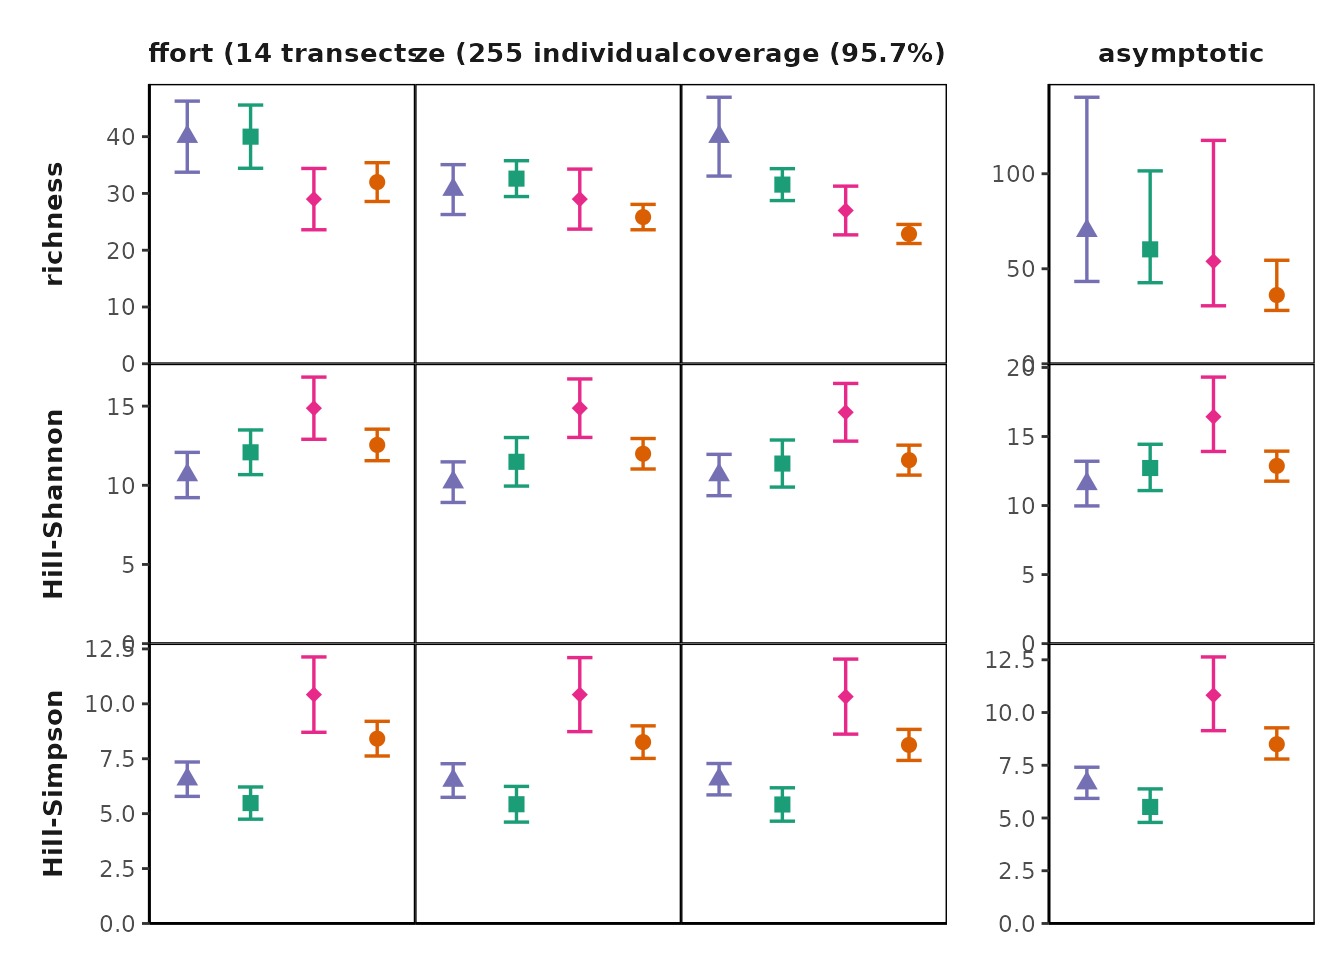
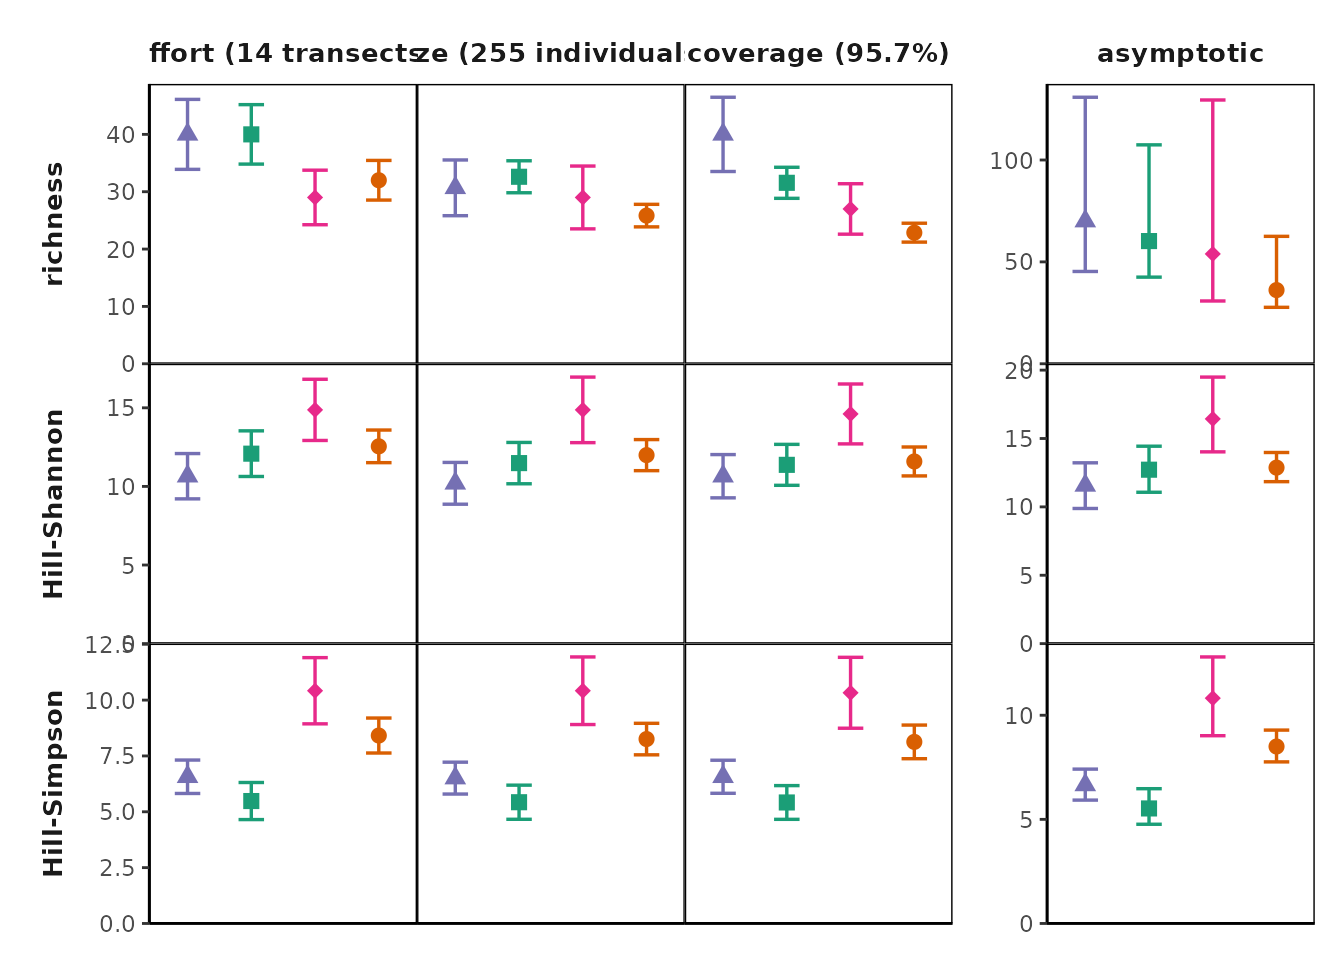
Built site for MeanRarity: 0.0.1.0003@ee379a4

diff --git a/articles/Using_MeanRarity.html b/articles/Using_MeanRarity.html
@@ -329,16 +329,16 @@ functions to enable this --></p>
 <span class="va">uneven_sample</span> <span class="op">&lt;-</span> <span class="fu"><a href="../reference/sample_infinite.html">sample_infinite</a></span><span class="op">(</span><span class="va">uneven_SAD</span><span class="op">$</span><span class="va">rel_abundances</span>, <span class="fl">50</span><span class="op">)</span>
 <span class="co">#sample_infinite returns a numeric vector of sample species abundances</span>
 <span class="va">even_sample</span>
-<span class="co">#&gt;  [1] 10  9  5  4  3  2  2  4  2  1  1  1  0  0  1  2  1  0  1  1</span>
+<span class="co">#&gt;  [1] 12  6  4  2  1  3  3  2  3  1  3  1  1  0  2  3  2  1  0  0</span>
 <span class="va">uneven_sample</span>
-<span class="co">#&gt;  [1] 17  7  6  5  4  1  3  2  2  1  1  0  0  1  0  0  0  0  0  0</span>
+<span class="co">#&gt;  [1] 15  8  5  4  1  3  3  2  2  1  0  3  1  1  0  0  0  0  0  1</span>
 
 <span class="co"># we can compare evenness (given a scaling parameter `l`)</span>
 <span class="co"># the evenness is the normalized ratio of an arbitrary Hill diversity to richness</span>
 <span class="fu"><a href="../reference/e3Fun.html">e3Fun</a></span><span class="op">(</span><span class="va">even_sample</span>, <span class="op">-</span><span class="fl">1</span><span class="op">)</span>
-<span class="co">#&gt; [1] 0.5162037</span>
+<span class="co">#&gt; [1] 0.533874</span>
 <span class="fu"><a href="../reference/e3Fun.html">e3Fun</a></span><span class="op">(</span><span class="va">uneven_sample</span>, <span class="op">-</span><span class="fl">1</span><span class="op">)</span>
-<span class="co">#&gt; [1] 0.4303586</span>
+<span class="co">#&gt; [1] 0.4428274</span>
 
 <span class="co"># compare diversity from sample vs. ideal SAD:</span>
 <span class="co"># likely pretty far off for a small sample!</span>
@@ -351,7 +351,7 @@ functions to enable this --></p>
   <span class="fu"><a href="../reference/rarity.html">rarity</a></span><span class="op">(</span><span class="va">even_sample</span>, <span class="va">l</span><span class="op">)</span>
 <span class="op">}</span><span class="op">)</span><span class="op">)</span>
 <span class="co">#&gt;      [,1] [,2]     [,3]    </span>
-<span class="co">#&gt; [1,] 17   12.13913 9.259259</span>
+<span class="co">#&gt; [1,] 17   12.79742 9.541985</span>
 
 <span class="co"># with an uneven SAD, sample Hill-Simpson can be higher than true Hill-Simpson</span>
 <span class="co"># richness is always lower</span>
@@ -362,7 +362,7 @@ functions to enable this --></p>
   <span class="fu"><a href="../reference/rarity.html">rarity</a></span><span class="op">(</span><span class="va">uneven_sample</span>, <span class="va">l</span><span class="op">)</span>
 <span class="op">}</span><span class="op">)</span><span class="op">)</span>
 <span class="co">#&gt;      [,1] [,2]     [,3]    </span>
-<span class="co">#&gt; [1,] 12   7.909591 5.733945</span>
+<span class="co">#&gt; [1,] 14   9.410706 6.756757</span>
 
 
 <span class="va">big_even_sample</span> <span class="op">&lt;-</span> <span class="fu"><a href="../reference/sample_infinite.html">sample_infinite</a></span><span class="op">(</span><span class="va">even_SAD</span><span class="op">$</span><span class="va">rel_abundances</span>, <span class="fl">1e7</span><span class="op">)</span>
@@ -376,7 +376,7 @@ functions to enable this --></p>
   <span class="fu"><a href="../reference/rarity.html">rarity</a></span><span class="op">(</span><span class="va">big_even_sample</span>, <span class="va">l</span><span class="op">)</span>
 <span class="op">}</span><span class="op">)</span><span class="op">)</span>
 <span class="co">#&gt;      [,1] [,2]     [,3]    </span>
-<span class="co">#&gt; [1,] 20   15.11512 11.99558</span></code></pre></div>
+<span class="co">#&gt; [1,] 20   15.11809 11.99869</span></code></pre></div>
 <p>For any distribution of relative abundances, one can ask, “what is the Hill diversity of this distribution?” Yet the answer, of course, depends on the chosen value of the scaling parameter <span class="math inline">\(\ell\)</span>. For a comprehensive answer, one might look across values of <span class="math inline">\(\ell\)</span>, also known as a Hill “diversity profile” <span class="citation">(Chao et al. 2014)</span>. <strong>MeanRarity</strong> provides a function to generate a Hill diversity profile based on <span class="math inline">\(\ell\)</span> (rather than <span class="math inline">\(q\)</span>): <code><a href="../reference/divpro.html">divpro()</a></code>. <!-- these should be on a single plot, will be much more interesting that way!--></p>
 <div class="sourceCode" id="cb8"><pre class="downlit sourceCode r">
 <code class="sourceCode R"><span class="co"># the even and uneven communities have same richness but different Hill </span>

diff --git a/reference/rmsle.html b/reference/rmsle.html
@@ -86,10 +86,10 @@
     <div class="sourceCode"><pre class="sourceCode r"><code><span class="r-in"></span>
 <span class="r-in"><span class="va">x</span> <span class="op">&lt;-</span> <span class="fu"><a href="https://rdrr.io/r/stats/Lognormal.html" class="external-link">rlnorm</a></span><span class="op">(</span>n <span class="op">=</span> <span class="fl">1e5</span><span class="op">)</span></span>
 <span class="r-in"><span class="fu">rmsle</span><span class="op">(</span><span class="va">x</span><span class="op">)</span> <span class="co"># should be very close to sdlog of lnorm, 1</span></span>
-<span class="r-out co"><span class="r-pr">#&gt;</span> [1] 0.994797</span>
+<span class="r-out co"><span class="r-pr">#&gt;</span> [1] 1.000539</span>
 <span class="r-in"><span class="va">y</span> <span class="op">&lt;-</span> <span class="fu"><a href="https://rdrr.io/r/stats/Normal.html" class="external-link">rnorm</a></span><span class="op">(</span>n <span class="op">=</span> <span class="fl">5000</span>, mean <span class="op">=</span> <span class="fl">12</span> <span class="op">)</span></span>
 <span class="r-in"><span class="fu">rmsle</span><span class="op">(</span><span class="va">y</span>, true_x <span class="op">=</span> <span class="fu"><a href="Ln.html">Ln</a></span><span class="op">(</span><span class="fl">12</span><span class="op">)</span><span class="op">)</span></span>
-<span class="r-out co"><span class="r-pr">#&gt;</span> [1] 0.08432114</span>
+<span class="r-out co"><span class="r-pr">#&gt;</span> [1] 0.08419718</span>
 <span class="r-in"><span class="fl">1</span><span class="op">/</span><span class="fl">12</span></span>
 <span class="r-out co"><span class="r-pr">#&gt;</span> [1] 0.08333333</span>
 </code></pre></div>

diff --git a/reference/Chao_Hill_abu.html b/reference/Chao_Hill_abu.html
@@ -110,11 +110,11 @@ ISSN 2041210X, doi: <a href="https://doi.org/10.1111/2041-21" class="external-li
 <span class="r-in"></span>
 <span class="r-in"><span class="co"># estimate true Hill diversity</span></span>
 <span class="r-in"><span class="fu">Chao_Hill_abu</span><span class="op">(</span><span class="va">abs</span>, l <span class="op">=</span> <span class="fl">1</span><span class="op">)</span> <span class="co"># Chao1 estimate of richness lower bound</span></span>
-<span class="r-out co"><span class="r-pr">#&gt;</span> [1] 41.96667</span>
+<span class="r-out co"><span class="r-pr">#&gt;</span> [1] 54.12741</span>
 <span class="r-in"><span class="fu">Chao_Hill_abu</span><span class="op">(</span><span class="va">abs</span>, l <span class="op">=</span> <span class="fl">0</span><span class="op">)</span> <span class="co"># Asymptotic estimate of Hill-Shannon diversity</span></span>
-<span class="r-out co"><span class="r-pr">#&gt;</span> [1] 28.78078</span>
+<span class="r-out co"><span class="r-pr">#&gt;</span> [1] 31.08397</span>
 <span class="r-in"><span class="fu">Chao_Hill_abu</span><span class="op">(</span><span class="va">abs</span>, l <span class="op">=</span> <span class="op">-</span><span class="fl">1</span><span class="op">)</span> <span class="co"># Asymptotic estimate of Hill-Simpson diversity</span></span>
-<span class="r-out co"><span class="r-pr">#&gt;</span> [1] 19.50262</span>
+<span class="r-out co"><span class="r-pr">#&gt;</span> [1] 20.81006</span>
 <span class="r-in"></span>
 </code></pre></div>
     </div>

diff --git a/reference/hurl.html b/reference/hurl.html
@@ -121,7 +121,7 @@ doi: <a href="https://doi.org/10.2307/1934145" class="external-link">10.2307/193
     <h2>Examples</h2>
     <div class="sourceCode"><pre class="sourceCode r"><code><span class="r-in"><span class="va">ab</span> <span class="op">=</span> <span class="fu"><a href="https://rdrr.io/r/base/sample.html" class="external-link">sample</a></span><span class="op">(</span><span class="fl">10</span><span class="op">:</span><span class="fl">50</span>, <span class="fl">50</span>, replace <span class="op">=</span><span class="cn">TRUE</span><span class="op">)</span></span>
 <span class="r-in"><span class="fu">hurl</span><span class="op">(</span><span class="va">ab</span>, <span class="fl">2</span><span class="op">)</span></span>
-<span class="r-out co"><span class="r-pr">#&gt;</span> [1] 44.15546</span>
+<span class="r-out co"><span class="r-pr">#&gt;</span> [1] 43.90806</span>
 <span class="r-in"><span class="co"># not run</span></span>
 <span class="r-in"><span class="co"># hurl(ab, 1e5) # returns an error</span></span>
 <span class="r-in"></span>

diff --git a/reference/Chat.Ind.html b/reference/Chat.Ind.html
@@ -111,11 +111,11 @@ doi: <a href="https://doi.org/10.1890/11-1952.1" class="external-link">10.1890/1
 <span class="r-in"></span>
 <span class="r-in"><span class="co"># estimate coverage of sample</span></span>
 <span class="r-in"><span class="fu">Chat.Ind</span><span class="op">(</span><span class="va">abs</span><span class="op">)</span></span>
-<span class="r-out co"><span class="r-pr">#&gt;</span> [1] 0.967453</span>
+<span class="r-out co"><span class="r-pr">#&gt;</span> [1] 0.9141313</span>
 <span class="r-in"></span>
 <span class="r-in"><span class="co"># estimate coverage under rarefaction</span></span>
 <span class="r-in"><span class="fu">Chat.Ind</span><span class="op">(</span><span class="va">abs</span>, m <span class="op">=</span> <span class="fl">100</span><span class="op">)</span></span>
-<span class="r-out co"><span class="r-pr">#&gt;</span> [1] 0.9106397</span>
+<span class="r-out co"><span class="r-pr">#&gt;</span> [1] 0.8600089</span>
 </code></pre></div>
     </div>
   </div>

diff --git a/reference/sample_finite.html b/reference/sample_finite.html
@@ -91,7 +91,7 @@ scalar</p></dd>
     <div id="ref-examples">
     <h2>Examples</h2>
     <div class="sourceCode"><pre class="sourceCode r"><code><span class="r-in"><span class="fu">sample_finite</span><span class="op">(</span><span class="fl">1</span><span class="op">:</span><span class="fl">9</span>, <span class="fl">15</span><span class="op">)</span></span>
-<span class="r-out co"><span class="r-pr">#&gt;</span> [1] 0 0 1 2 2 3 0 2 5</span>
+<span class="r-out co"><span class="r-pr">#&gt;</span> [1] 0 0 1 2 2 3 1 4 2</span>
 </code></pre></div>
     </div>
   </div>
